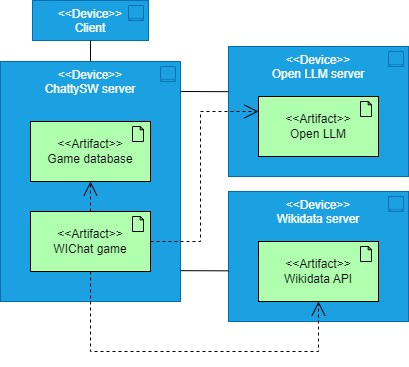
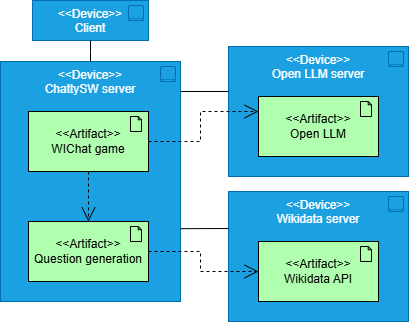
Updates

diff --git a/index.html b/index.html
@@ -1248,6 +1248,9 @@ body.book #toc,body.book #preamble,body.book h1.sect0,body.book .sect1>h2{page-b
 <li>
 <p><strong>Lazy Loading:</strong> Loads data progressively to optimize frontend performance.</p>
 </li>
+<li>
+<p><strong>Producer-Consumer:</strong> A programmed auxiliar process runs to generate questions and answers, storing them in the database for the game service to use.</p>
+</li>
 </ul>
 </div>
 </div>
@@ -1600,13 +1603,13 @@ You will mainly capture scenarios in your documentation to communicate your arch
 <p><strong>Logging in:</strong> The user logs into the application. If they don&#8217;t have  an account created, it will be necessary to sign up.</p>
 </li>
 <li>
-<p><strong>Starting the game: </strong> Once logged in, the user will start a new game, choosing a mode among all the options.</p>
+<p><strong>Starting the game: </strong> Once logged in, the user will start a new game.</p>
 </li>
 <li>
 <p><strong>Answering the questions: </strong> For each question, the four ellegible answers will be generated. Once per question, its info (question, image and possible answers) will be presented to the user via the GUI, and it will wait for their input. After the user inputs their answer, the score will be increased (or not) accordingly to the choosen answer.</p>
 </li>
 <li>
-<p><strong>Ending the game:</strong> Once all the questions have been answered, the GUI will display the final score of the game. Then, the user will have the opportunity to upload this score to the leaderboard. In any case, a shortened ranking of the highest scores will be shown afterwards.</p>
+<p><strong>Ending the game:</strong> Once all the questions have been answered, the GUI will display the final score of the game.</p>
 </li>
 </ul>
 </div>
@@ -1725,7 +1728,7 @@ when your infrastructure is more complex.</p>
 </dd>
 <dt class="hdlist1">Quality and/or Performance Features</dt>
 <dd>
-<p>This design has been made taking in consideration potential performance and availability issues. Accessing data from the Wikidata servers, as well as the LLM, will ensure that their failure won&#8217;t be fatal to the entire app. On the other hand, hosting the database in the same server as the game will help in reducing response time when accessing the database.</p>
+<p>This design has been made taking in consideration potential performance and availability issues. Accessing data from the Wikidata servers, as well as the LLM, will ensure that their failure won&#8217;t be fatal to the entire app. On the other hand, scheduling a secondary task to generate questions and answers will ensure that said questions are fully loaded before starting a game. This will also help with the performance of the app, as it will not be necessary to wait for the generation of questions during the game.</p>
 </dd>
 <dt class="hdlist1">Mapping of Building Blocks to Infrastructure</dt>
 </dl>
@@ -1744,7 +1747,7 @@ when your infrastructure is more complex.</p>
 <tbody>
 <tr>
 <td class="tableblock halign-left valign-top"><p class="tableblock">WIChat server</p></td>
-<td class="tableblock halign-left valign-top"><p class="tableblock">Game app - Frontend (React), Backend (node.js), database (MongoDB)</p></td>
+<td class="tableblock halign-left valign-top"><p class="tableblock">Game app (Frontend: React, Backend: node.js), Question generation service</p></td>
 </tr>
 <tr>
 <td class="tableblock halign-left valign-top"><p class="tableblock">Wikidata server</p></td>
@@ -1916,7 +1919,7 @@ on this list.</p>
 <p><strong>User:</strong> An individual interacting with the application, capable of handling multiple concurrent sessions.</p>
 </li>
 <li>
-<p><strong>Game:</strong> A feature allowing users to engage in individual or multiplayer challenges with different formats.</p>
+<p><strong>Game:</strong> A feature allowing users to engage in individual challenges with different formats.</p>
 </li>
 <li>
 <p><strong>Stats:</strong> A section displaying user performance, including total games, accuracy, and average scores.</p>
@@ -1942,10 +1945,10 @@ on this list.</p>
 <p><strong>Intuitive Design:</strong> A clear and accessible interface for easy navigation.</p>
 </li>
 <li>
-<p><strong>Multilingual Support:</strong> Available in multiple languages, with English as the default.</p>
+<p><strong>Accessibility Features:</strong> Visual aids such as icons and colors to improve understanding.</p>
 </li>
 <li>
-<p><strong>Accessibility Features:</strong> Visual aids such as icons and colors to improve understanding.</p>
+<p><strong>Attractive design:</strong> A beautiful and visually appealing app design.</p>
 </li>
 </ul>
 </div>
@@ -1971,9 +1974,6 @@ on this list.</p>
 <ul>
 <li>
 <p><strong>Access Control:</strong> Restriction of certain sections to authenticated users.</p>
-</li>
-<li>
-<p><strong>Password Security:</strong> Minimum 8-character passwords with letters, numbers, and special characters.</p>
 </li>
 <li>
 <p><strong>Data Protection:</strong> Encrypted credentials to prevent unauthorized access.</p>
@@ -2318,7 +2318,7 @@ See <a href="https://arc42.org" class="bare">https://arc42.org</a>.</p>
 <div id="footer">
 <div id="footer-text">
 Version 8.2 EN<br>
-Last updated 2025-03-10 12:26:50 +0100
+Last updated 2025-03-31 03:30:27 +0200
 </div>
 </div>
 </body>
